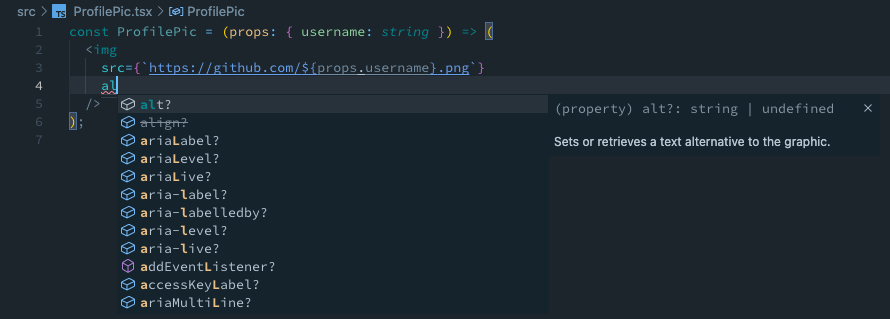
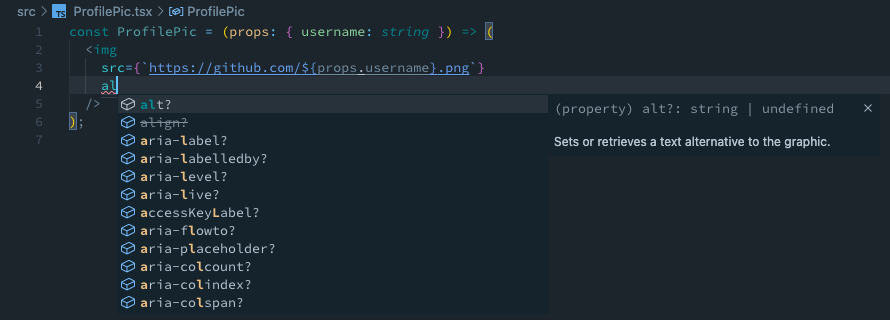
feat: omit DOM instance method names

diff --git a/index.d.ts b/index.d.ts
@@ -1,4 +1,5 @@
 import type {
+  Element,
   HTMLAnchorElement,
   HTMLAreaElement,
   HTMLAudioElement,
@@ -124,6 +125,15 @@ import type {
 } from "dom-types";
 
 type BooleanLike = boolean | `${boolean}`;
+
+// (...arg: unknown[]) => unknown does not work with functions with overloads.
+// I'm not sure if using `Function` here is safe though.
+type MethodKeysImpl<T, K extends keyof T> = K extends K
+  ? T[K] extends Function
+    ? K
+    : never
+  : never;
+type MethodKeys<T> = MethodKeysImpl<T, keyof T>;
 
 declare global {
   namespace JSX {
@@ -359,7 +369,10 @@ declare global {
     }
 
     type HTMLAttributes<E> = AriaAttributes &
-      Partial<E | JSX.ElementChildrenAttribute>;
+      Partial<
+        | Omit<E, MethodKeys<E> | `aria${Capitalize<string>}`>
+        | JSX.ElementChildrenAttribute
+      >;
     interface IntrinsicElements {
       a: HTMLAttributes<HTMLAnchorElement>;
       abbr: HTMLAttributes<HTMLElement>;
